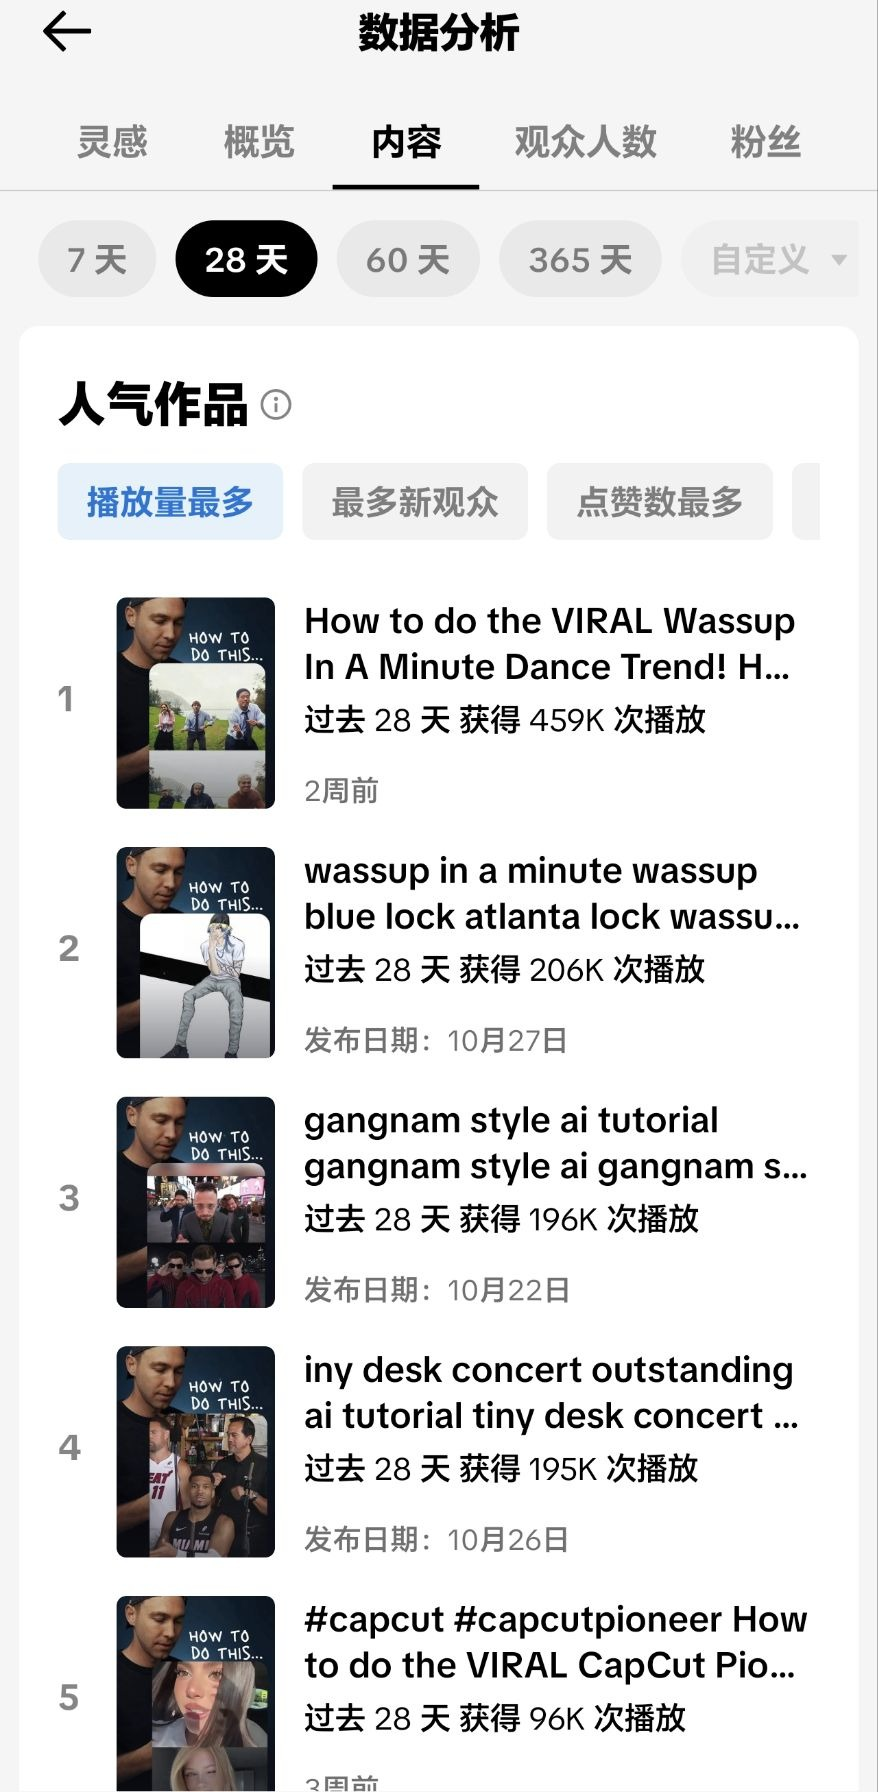
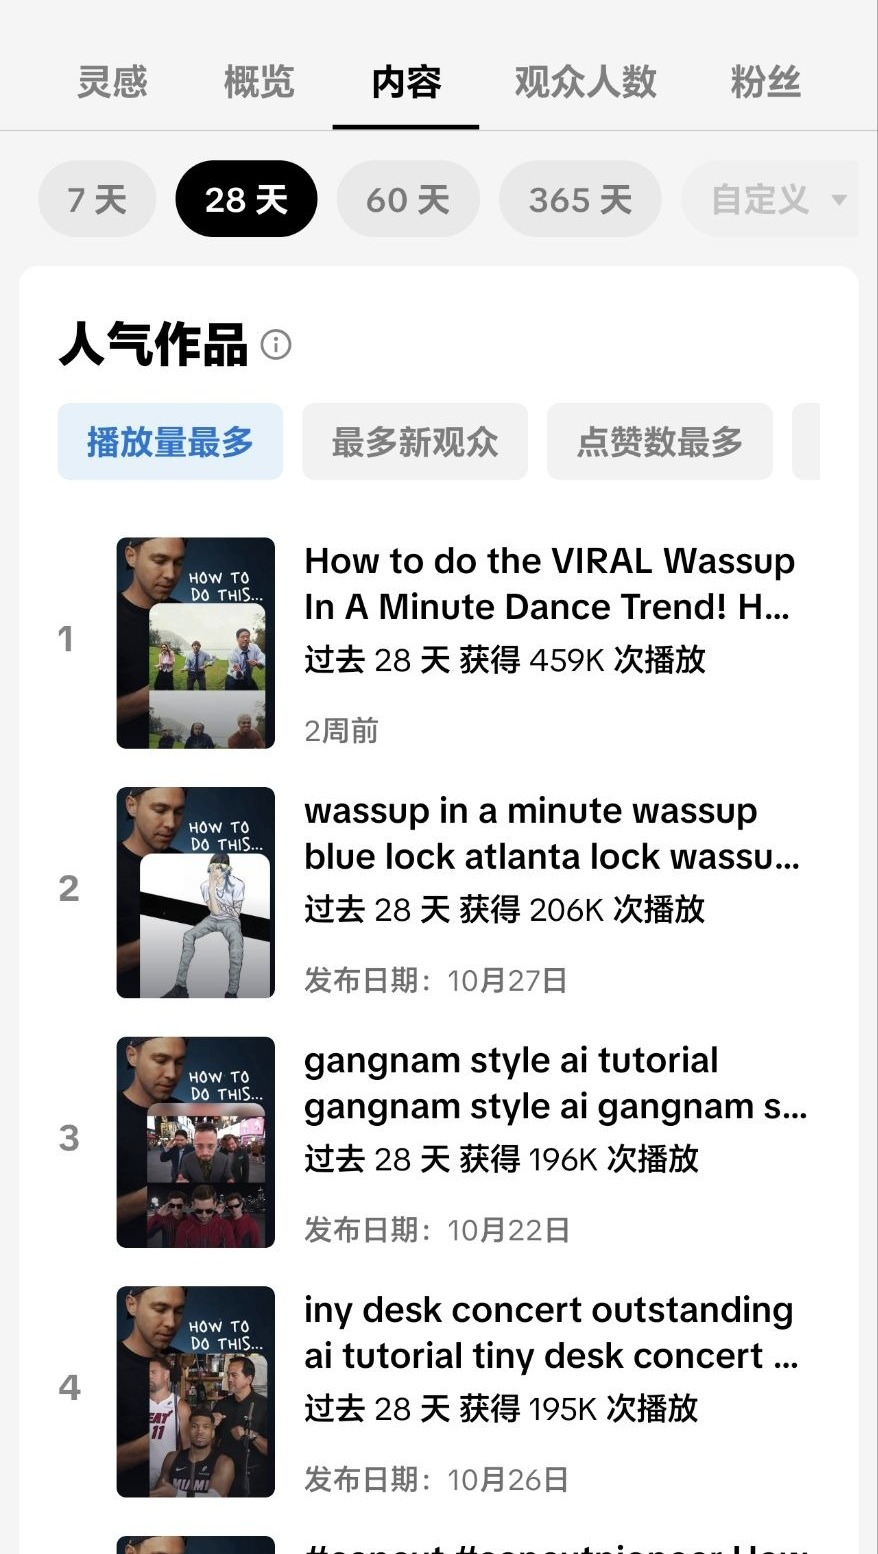
裁掉数据分析标题栏并统一四张作品图尺寸 878x1554

diff --git a/index.html b/index.html
@@ -261,7 +261,7 @@ tr:last-child td{border-bottom:none}
 .shot:nth-child(2) .shot-stat b{color:#e0a06a}
 .shot:nth-child(3) .shot-stat b{color:#e5b86a}
 .shot:nth-child(4) .shot-stat b{color:#8fd0b2}
-.shot-ph{aspect-ratio:878/1792;display:flex;flex-direction:column;align-items:center;justify-content:center;gap:9px;text-align:center;padding:18px;
+.shot-ph{aspect-ratio:878/1554;display:flex;flex-direction:column;align-items:center;justify-content:center;gap:9px;text-align:center;padding:18px;
   background:repeating-linear-gradient(45deg,#faf8f3,#faf8f3 10px,#f2efe8 10px,#f2efe8 20px)}
 .shot-ph svg{width:26px;height:26px;stroke:var(--faint);fill:none;stroke-width:1.5}
 .shot-ph b{font-size:12.5px;color:var(--ink-2);font-weight:600}
